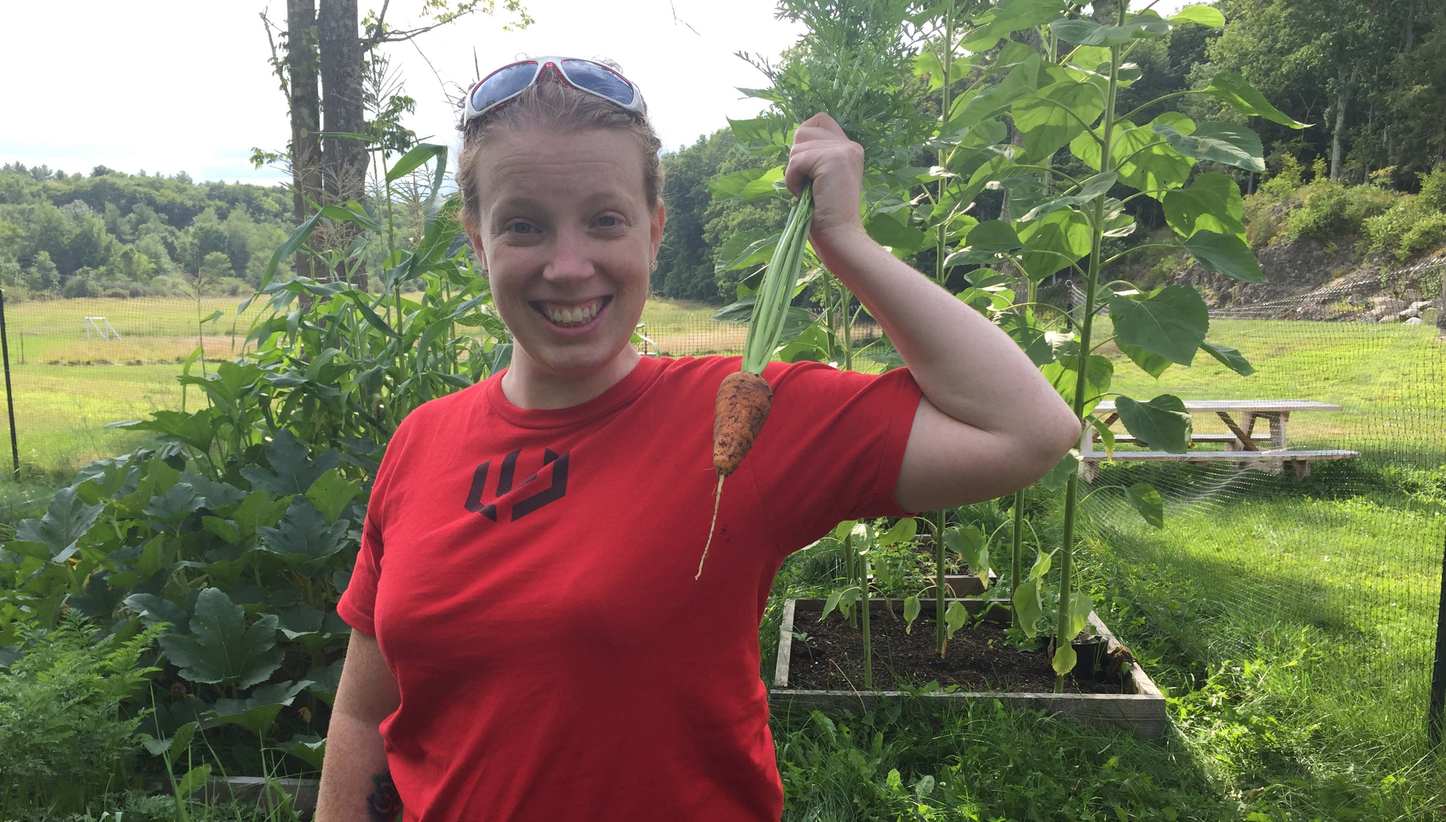
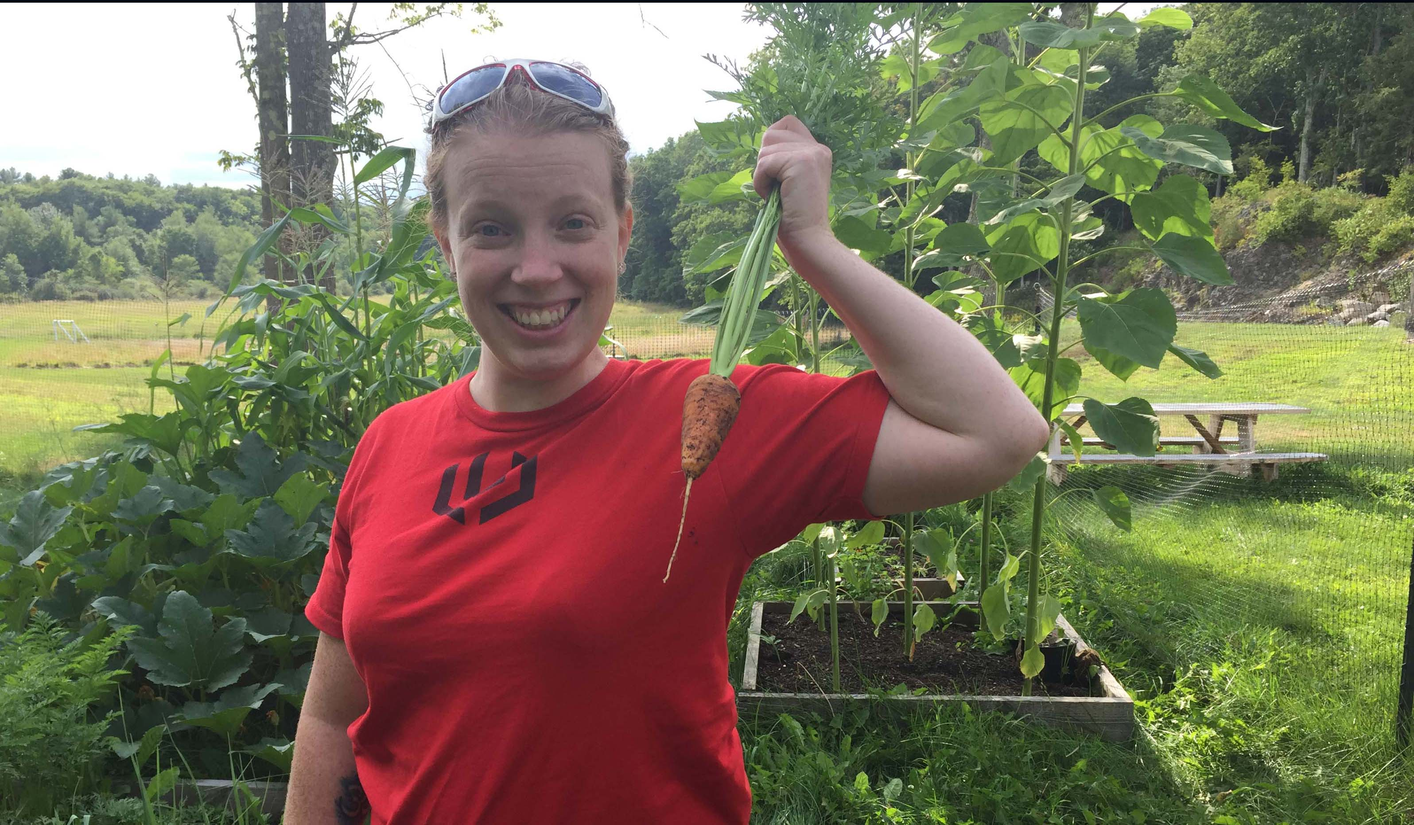
not sure why

diff --git a/public/coop/coop.css b/public/coop/coop.css
@@ -3,7 +3,7 @@ body {
     font-weight: 500;
     /* font-size:1rem; */
     margin: 0;
-    background-image: url('../images/coop.jpg');
+    background-image: url('../images/coop2.jpg');
     background-repeat: no-repeat;
     background-position: center;
     background-size: 40rem 80rem;
